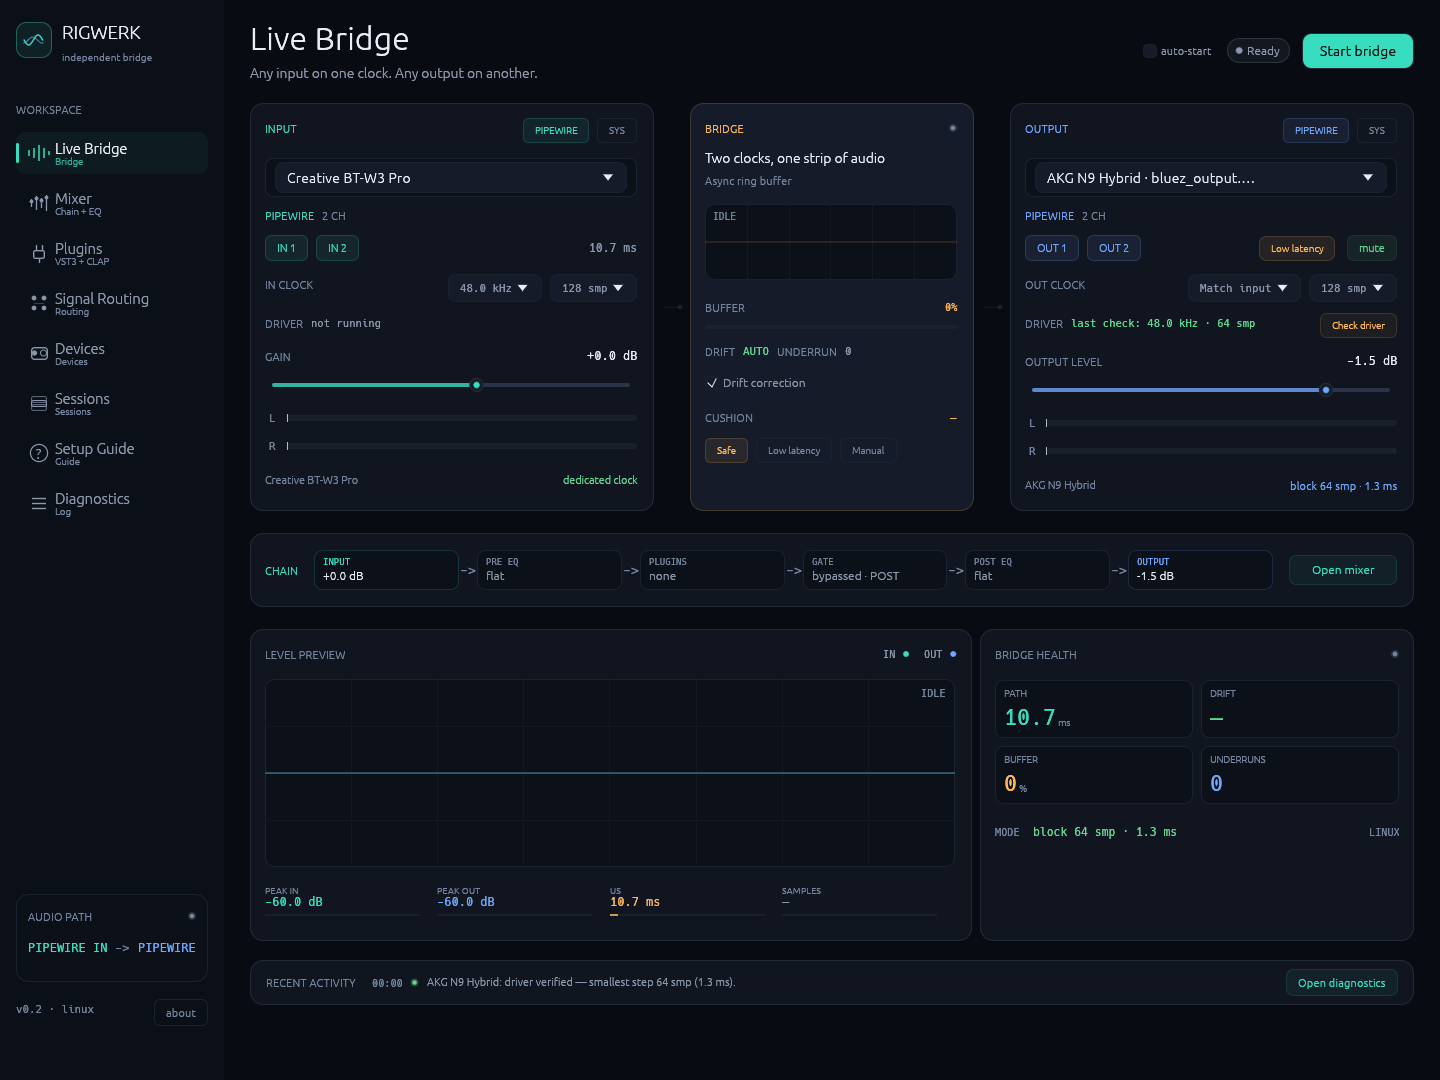
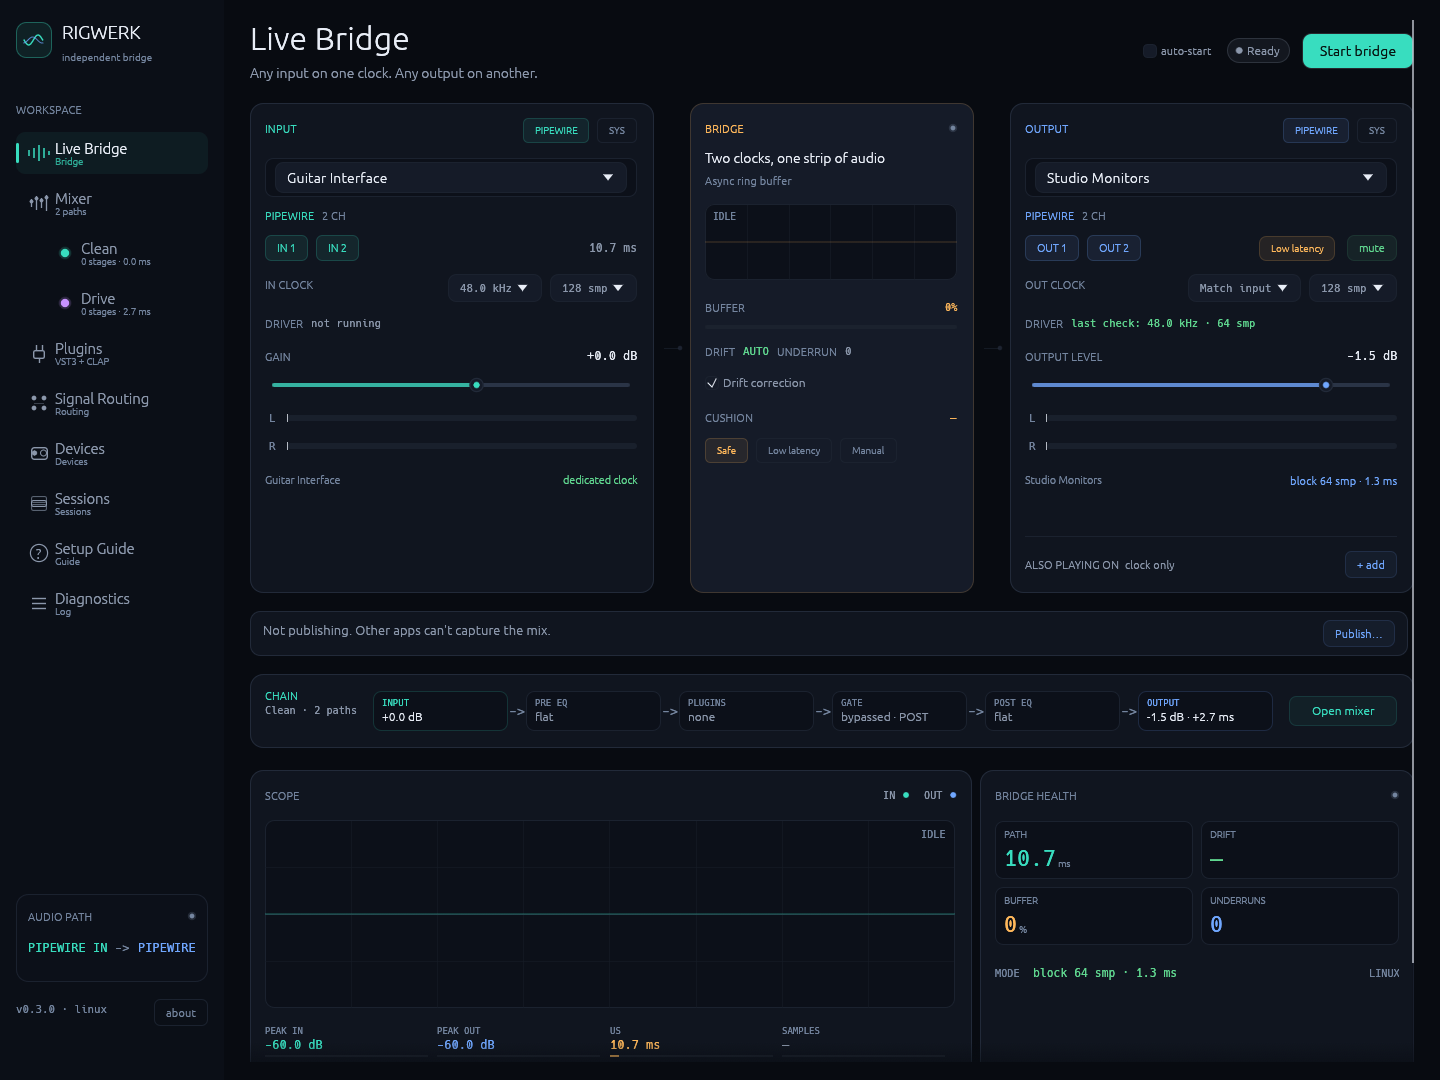
Refresh README screenshots for the current UI
- Retake Live, Mixer, Devices and Signal Routing at 1440x1080
- Show Live, Mixer and Routing with the Blend clean setup (two paths)
- List the commands and the headless PipeWire setup used

Claude-Session: https://claude.ai/code/session_018r1ZSrQS7CXbuCRYGBbM1v

diff --git a/README.md b/README.md
@@ -92,12 +92,20 @@ priority, a plugin chain that overloads the CPU can starve the desktop.
 cargo test
 ```
 
-Screenshots for docs (fixed 1440×1080, no scrollbar):
+Screenshots for docs (fixed 1440×1080 window):
 
 ```bash
 # Wayland cannot honor client resize; --screenshot drops to X11/XWayland.
-RIGWERK_PAGE=live cargo run --release -- --screenshot docs/screenshots/live.png
+export RIGWERK_ROUTING_SETUP=blend   # Live, Mixer and Routing show two paths
+for page in live mixer routing; do
+  RIGWERK_PAGE=$page cargo run --release -- --screenshot docs/screenshots/$page.png
+done
+RIGWERK_PAGE=devices cargo run --release -- --screenshot docs/screenshots/devices.png
 ```
+
+Without a display or sound card, run them under `xvfb-run -a` against the
+PipeWire null-sink graph in `AGENTS.md` (one `Audio/Sink` and one
+`Audio/Source/Virtual` node, `pw-metadata -n settings 0 clock.force-quantum 64`).
 
 `RIGWERK_PAGE` may be `live`, `mixer`, `routing`, `devices`, `sessions`,
 `plugins`, `guide`, or `diagnostics`.
